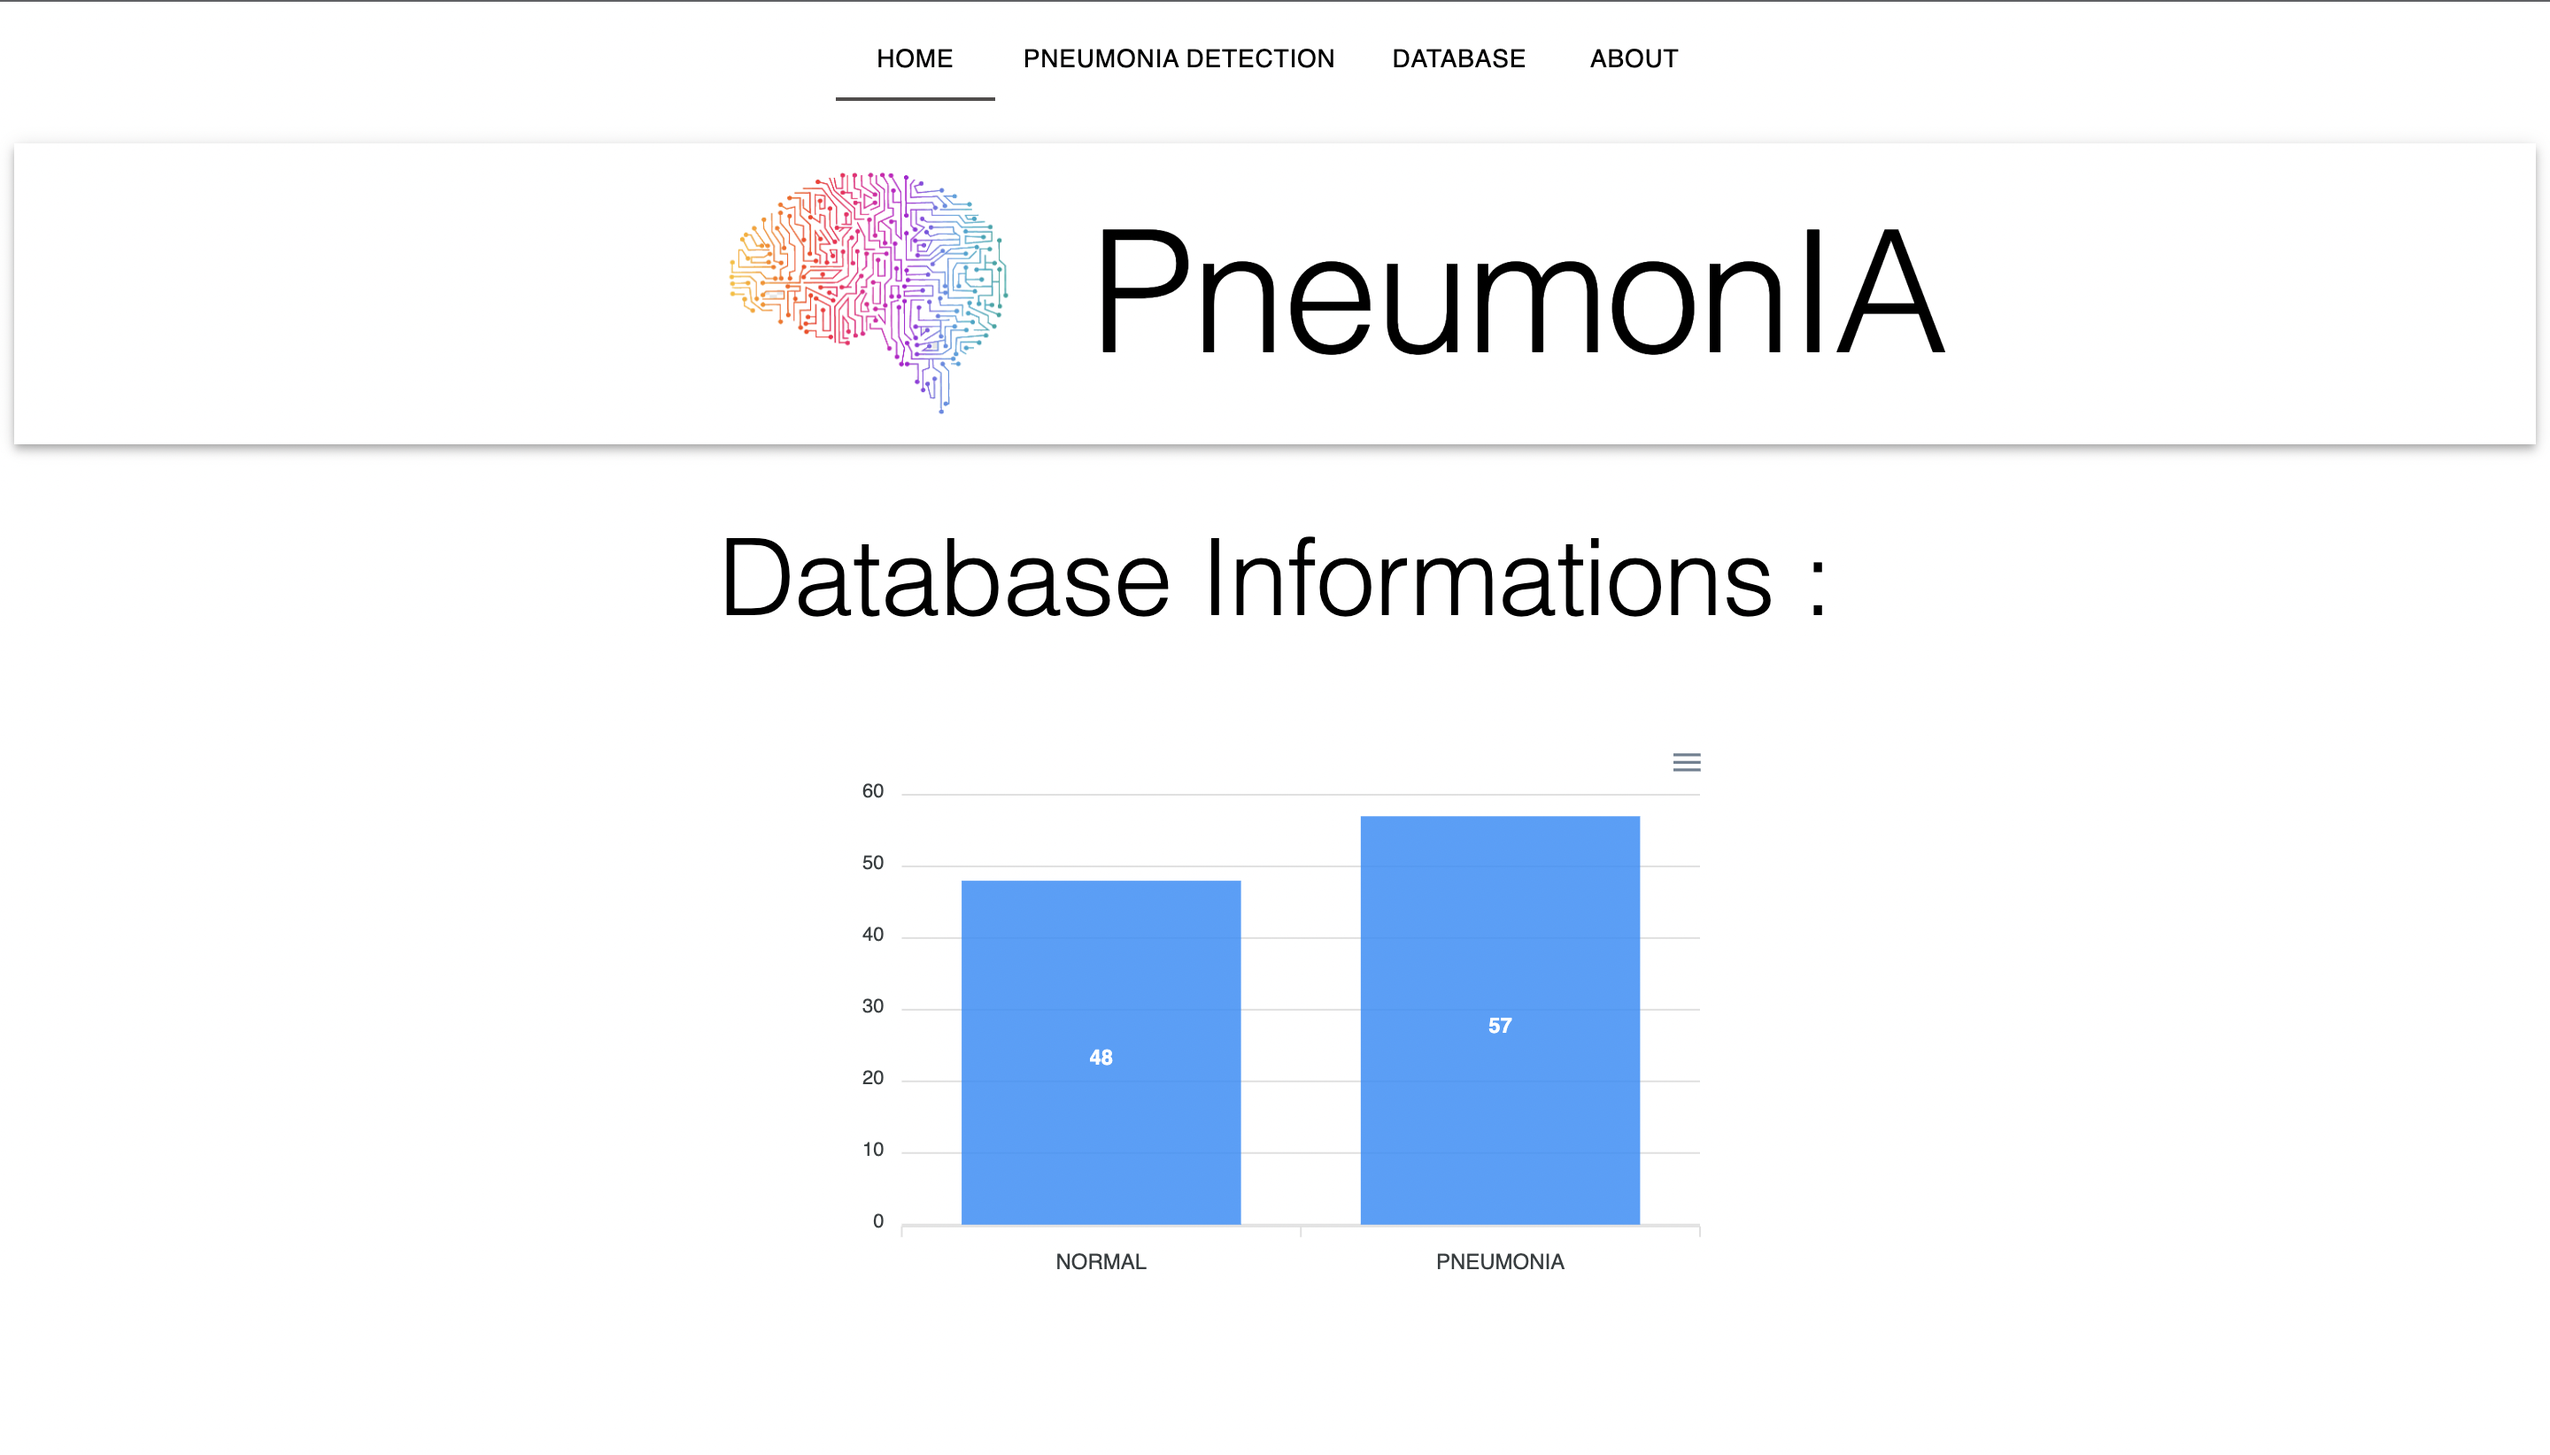
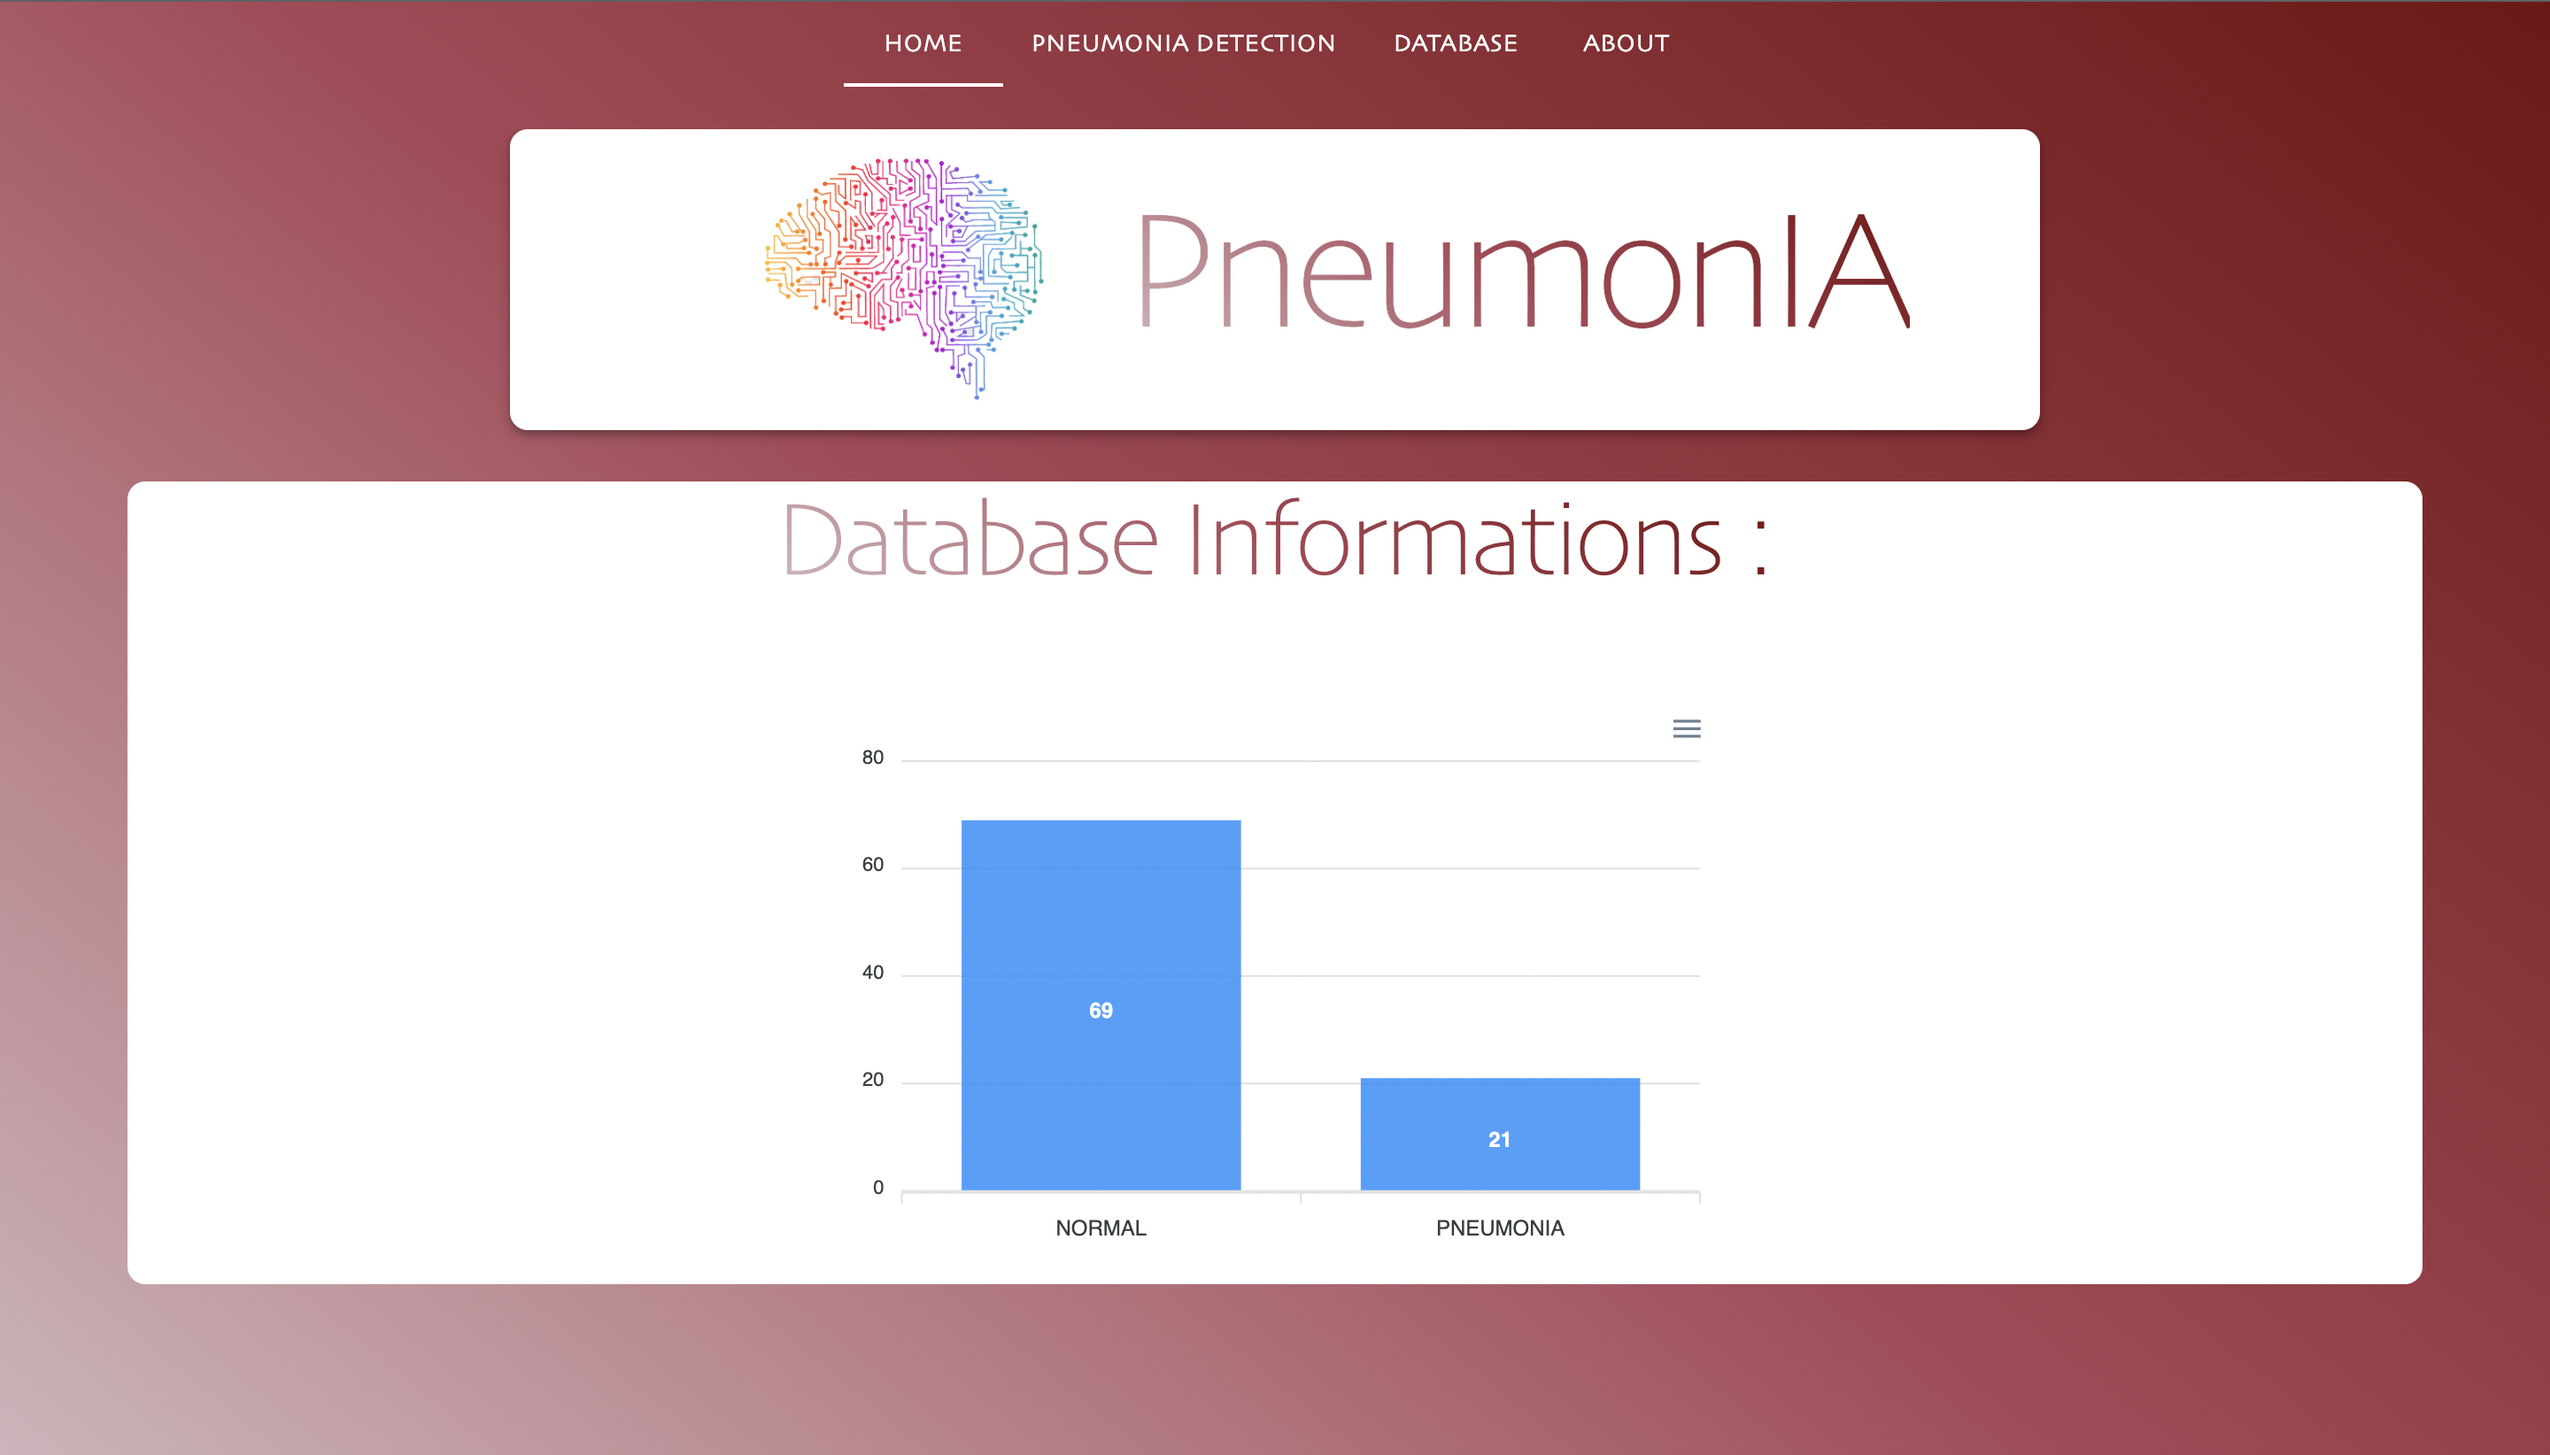
readme modification

diff --git a/README.md b/README.md
@@ -35,18 +35,18 @@ Go to : `http://localhost:3000/`
 
 ### Home page
 
-![home](https://github.com/Bessouat40/reactjs-fastapi-pneumonia-detection/blob/main/screen/home-red.png)
+![home](https://github.com/Bessouat40/reactjs-fastapi-pneumonia-detection/blob/main/screen/home.png)
 
 ### Pneumonia Detection page
 
-![pred1](https://github.com/Bessouat40/reactjs-fastapi-pneumonia-detection/blob/main/screen/red-pred.png)
-![pred2](https://github.com/Bessouat40/reactjs-fastapi-pneumonia-detection/blob/main/screen/red-pred2.png)
-![pred3](https://github.com/Bessouat40/reactjs-fastapi-pneumonia-detection/blob/main/screen/red-pred3.png)
+![pred1](https://github.com/Bessouat40/reactjs-fastapi-pneumonia-detection/blob/main/screen/pred1.png)
+![pred2](https://github.com/Bessouat40/reactjs-fastapi-pneumonia-detection/blob/main/screen/pred2.png)
+![pred3](https://github.com/Bessouat40/reactjs-fastapi-pneumonia-detection/blob/main/screen/pred3.png)
 
 ### Database page
 
-![db](https://github.com/Bessouat40/reactjs-fastapi-pneumonia-detection/blob/main/screen/db-red.png)
+![db](https://github.com/Bessouat40/reactjs-fastapi-pneumonia-detection/blob/main/screen/db.png)
 
 ### About page
 
-![about](https://github.com/Bessouat40/reactjs-fastapi-pneumonia-detection/blob/main/screen/about-red.png)
+![about](https://github.com/Bessouat40/reactjs-fastapi-pneumonia-detection/blob/main/screen/about.png)
